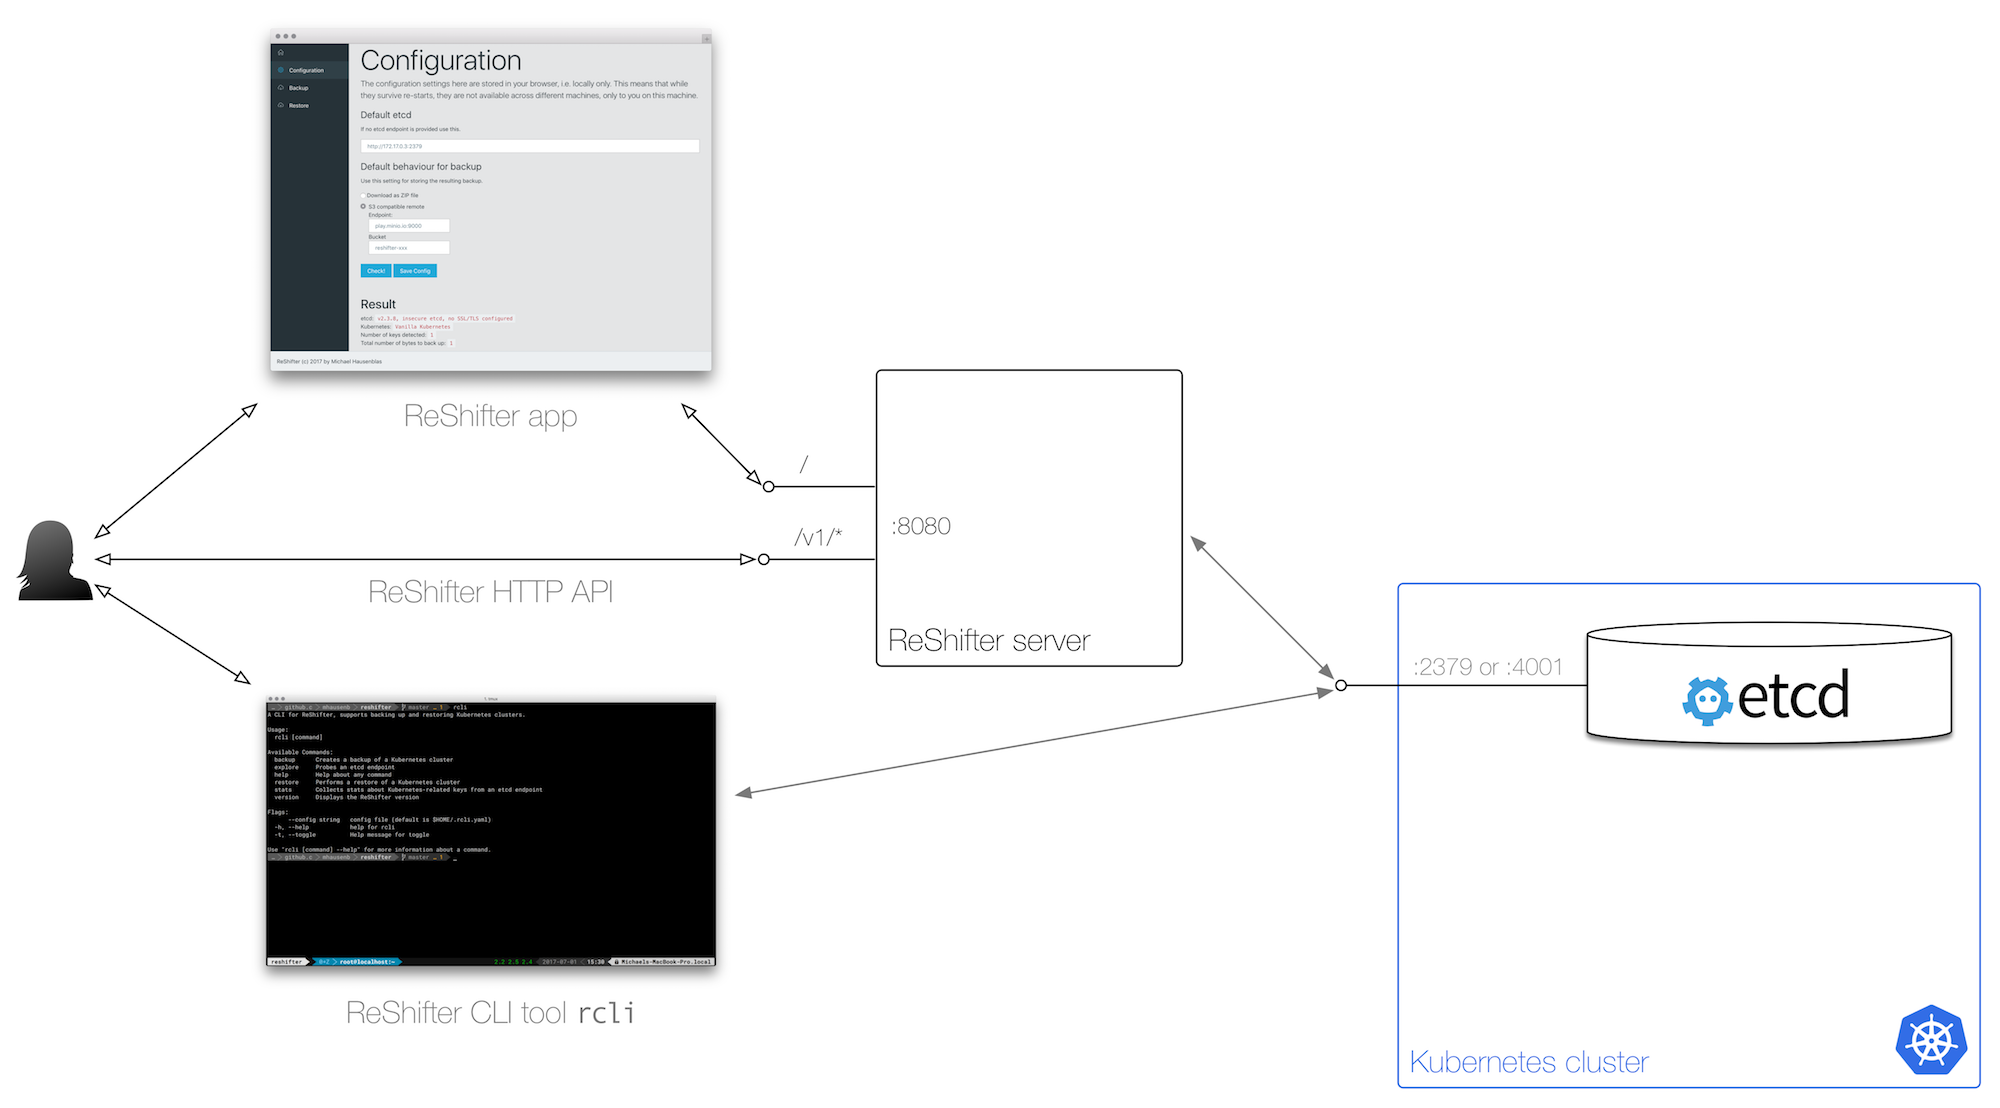
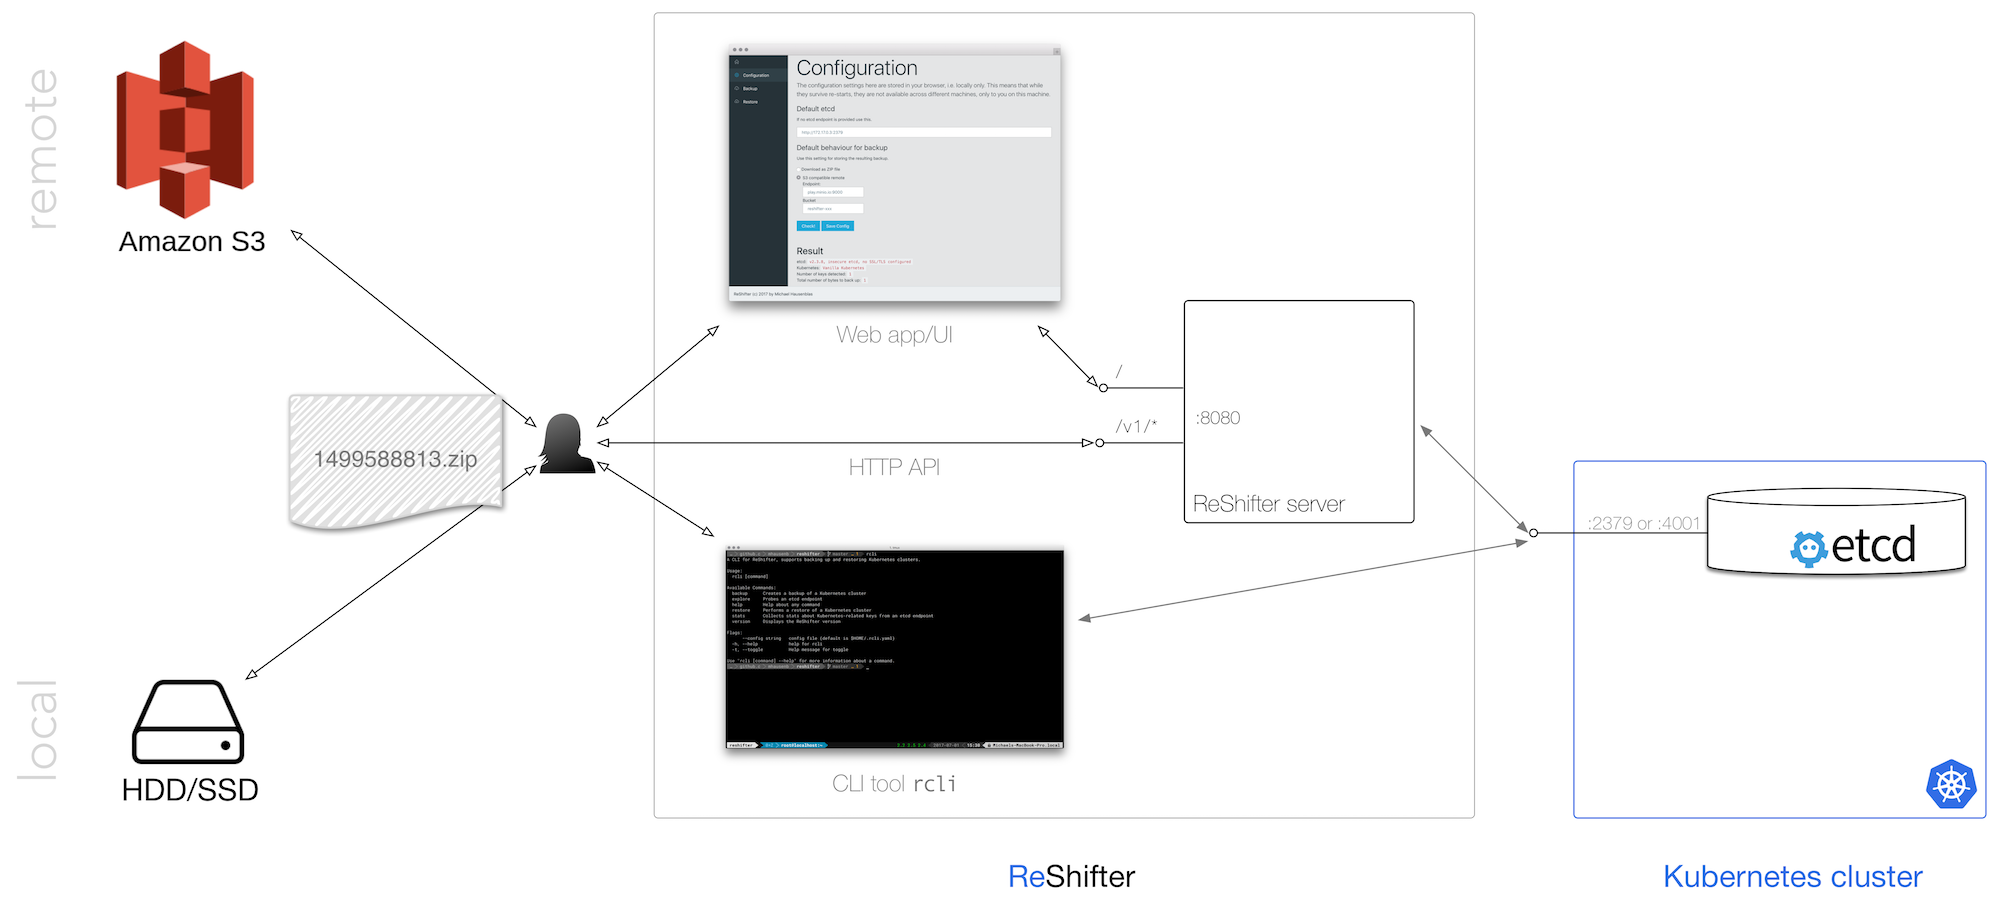
updates architecture to address local/remote paths

diff --git a/architecture.md b/architecture.md
@@ -2,10 +2,15 @@
 
 ## Architecture
 
+ReShifter's architecture is as follows:
+
 ![ReShifter architecture](images/reshifter-architecture.png)
 
-Above, ReShifter's architecture is depicted. Both the server (exposing a HTTP API) and the CLI are leveraging the
-ReShifter library [github.com/mhausenblas/reshifter/pkg](https://godoc.org/github.com/mhausenblas/reshifter/pkg).
+- You can make backups and restore of a Kubernetes cluster, either by storing the archive (ZIP file with the content of the underlying etcd) locally or in a remote location (S3-compatible object storage).
+- Both the server (exposing a HTTP API) and the CLI tool `rcli`are leveraging the ReShifter library [github.com/mhausenblas/reshifter/pkg](https://godoc.org/github.com/mhausenblas/reshifter/pkg).
+- All you need to supply is access to etcd in the form of a URl such as `http://localhost:2379`. If etcd is used in a secure more you'll need to supply the certs and key. If you want to back up to and restore from the remote storage, you'll additionally need to provide the credentials (access key ID and secret access key) for the S3-compatible object storage endpoint.
+
+## Design considerations
 
 The basic idea of ReShifter is to work against the etcd API. That means, backing up and restoring the state of
 objects in a Kubernetes cluster on the etcd API level: not below as tools like `etcdctl` do it, and also not on a higher
